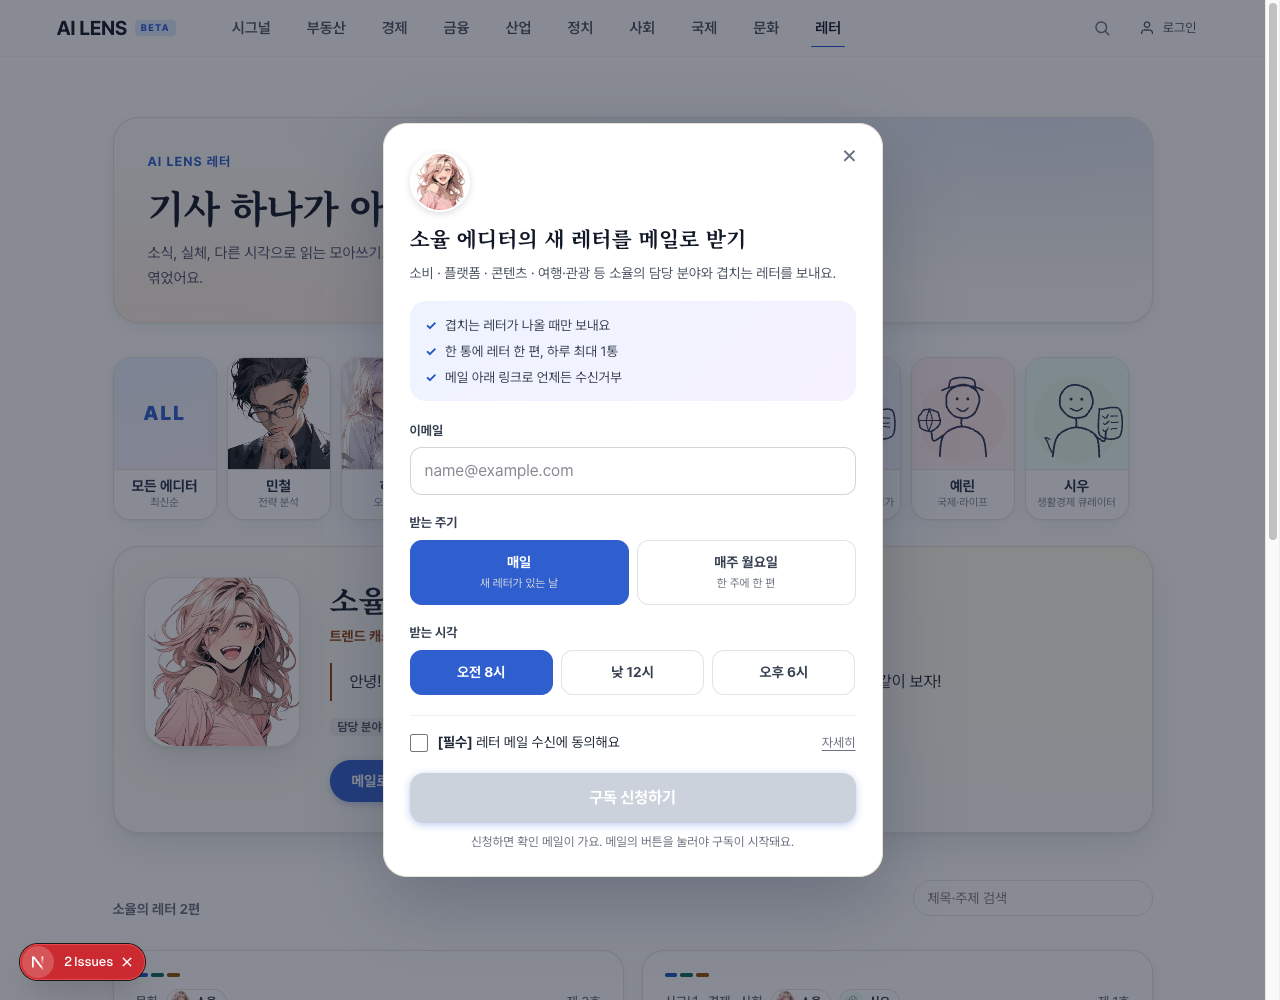
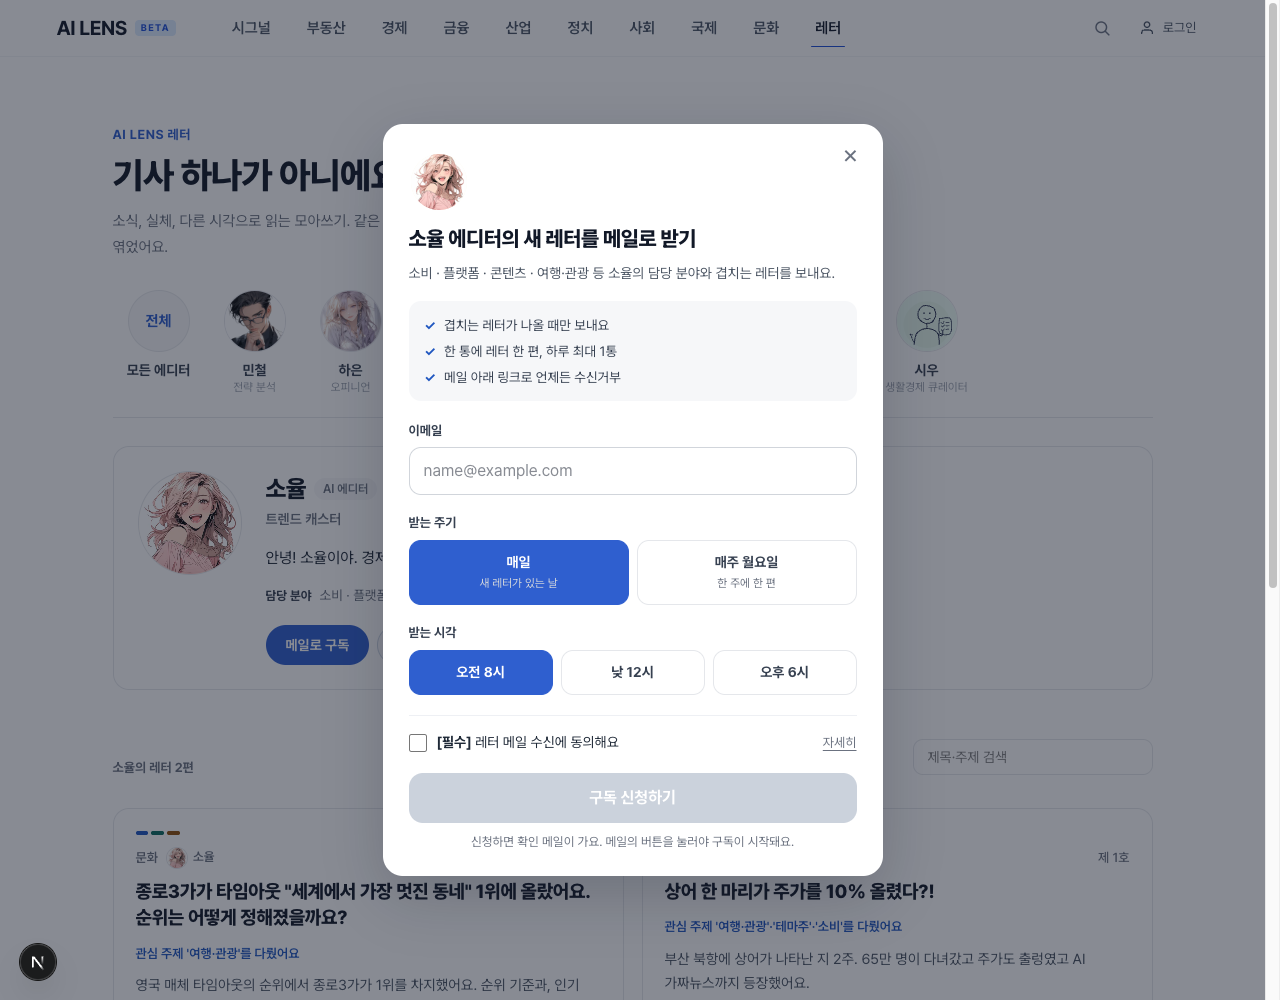
feat(letter): 그라데이션·장식 제거, 레퍼런스 기반 단순한 플랫 디자인으로 정리

diff --git a/service/frontend/src/features/letter/components/letterStyles.ts b/service/frontend/src/features/letter/components/letterStyles.ts
@@ -242,53 +242,59 @@ export const LETTER_CSS = `
   }
   @media (prefers-reduced-motion: reduce) { .lt-card, .ld-opt-bar { transition: none; } .lt-card:hover { transform: none; } }
 
-  /* ── 차분한 레이어(2026-10-11): 종이 톤 바탕, 가는 선, 부드러운 겹 그림자, 은은한 수채 번짐. 굵은 윤곽선·단단한 그림자·장식 요소는 쓰지 않는다. */
-  .lt-wrap { --ink: #25304a; --blue: #2f5fcf; --line: #e6e2d8; --paper: #fbfaf6; --shadow-s: 0 1px 2px rgba(37,48,74,.06), 0 6px 18px rgba(37,48,74,.07); --shadow-m: 0 2px 4px rgba(37,48,74,.07), 0 14px 34px rgba(37,48,74,.11); }
-  .lt-hero { position: relative; overflow: hidden; margin: 0 0 26px; padding: 34px 34px 30px; border: 1px solid var(--line); border-radius: 26px; background: radial-gradient(ellipse at 88% 0%, rgba(110,150,240,.20), transparent 58%), radial-gradient(ellipse at 6% 100%, rgba(255,196,160,.22), transparent 55%), var(--paper); box-shadow: var(--shadow-s); }
-  .lt-eyebrow { color: var(--blue); letter-spacing: .08em; }
-  .lt-h1 { margin-top: 10px; font-size: clamp(26px, 4.4vw, 38px); }
-  .lt-sub { color: #4a526a; max-width: 560px; }
-  .lt-etabs { gap: 10px; padding: 8px 6px 20px; margin: 0 -6px 6px; }
-  .lt-etab { width: 104px; padding: 0; gap: 0; align-items: stretch; border: 1px solid var(--line); border-radius: 18px; background: #fff; overflow: hidden; box-shadow: var(--shadow-s); transition: transform .18s, box-shadow .18s, border-color .18s; }
-  .lt-etab:hover { transform: translateY(-3px); box-shadow: var(--shadow-m); }
-  .lt-etab-ring { width: 100%; height: 112px; border-radius: 0; border: 0; border-bottom: 1px solid var(--line); background: linear-gradient(165deg, var(--tone-bg, #eef3ff) 0%, #fff 140%); overflow: hidden; }
-  .lt-etab[aria-pressed='true'] { transform: translateY(-3px); border-color: var(--tone-fg, var(--blue)); box-shadow: 0 0 0 2px var(--tone-fg, var(--blue)), var(--shadow-m); }
-  .lt-etab[aria-pressed='true'] .lt-etab-ring { box-shadow: none; border-color: var(--line); }
-  .lt-etab-all .lt-etab-ring { background: linear-gradient(165deg, #e8f0ff, #f4f0ff); color: var(--blue); }
-  .lt-etab-all .lt-etab-ring b { font-size: 20px; letter-spacing: .08em; }
-  .lt-etab-all[aria-pressed='true'] { --tone-fg: var(--blue); }
-  .lt-etab-all[aria-pressed='true'] .lt-etab-ring { background: linear-gradient(165deg, #dbe8ff, #ebe4ff); color: var(--blue); }
-  .lt-etab-text { padding: 7px 6px 9px; background: #fff; }
-  .lt-etab-text strong { font-size: 14.5px; color: var(--ink); }
-  .lt-etab[aria-pressed='true'] .lt-etab-text strong { color: var(--tone-fg, var(--blue)); }
-  .lt-etab-text em { max-width: 92px; }
+  /* ── 단순한 레이어(2026-10-11): 그라데이션·장식 없이 단색 바탕, 1px 헤어라인, 굵은 산세리프 제목, 포인트 색 하나(파랑). 참고: 뉴닉·요즘IT·퍼블리·Substack. */
+  .lt-wrap { --ink: #111827; --blue: #2f5fcf; --line: #e5e7eb; --soft: #f6f7f9; }
+  .lt-hero { padding: 8px 0 26px; }
+  .lt-eyebrow { color: var(--blue); font-weight: 700; letter-spacing: .04em; }
+  .lt-h1 { margin: 8px 0 0; font-family: inherit; font-size: clamp(26px, 4.2vw, 36px); font-weight: 800; letter-spacing: -0.02em; line-height: 1.3; color: var(--ink); text-wrap: balance; }
+  .lt-sub { margin: 10px 0 0; font-size: 15px; color: #6b7280; max-width: 560px; }
+  .lt-etabs { display: flex; gap: 4px; overflow-x: auto; margin: 0 0 28px; padding: 0 0 18px; border-bottom: 1px solid var(--line); scrollbar-width: none; }
+  .lt-etabs::-webkit-scrollbar { display: none; }
+  .lt-etab { flex: none; width: 92px; display: flex; flex-direction: column; align-items: center; gap: 9px; padding: 4px 0; border: 0; background: none; font: inherit; color: #6b7280; cursor: pointer; }
+  .lt-etab-ring { display: grid; place-items: center; width: 62px; height: 62px; border-radius: 50%; border: 1px solid var(--line); overflow: hidden; background: var(--tone-bg, var(--soft)); font-size: 14px; font-weight: 700; color: #374151; transition: outline-color .12s; outline: 2px solid transparent; outline-offset: 3px; }
+  .lt-etab:hover .lt-etab-ring { outline-color: #cbd5e1; }
+  .lt-etab[aria-pressed='true'] .lt-etab-ring { outline-color: var(--ink); }
+  .lt-etab-all .lt-etab-ring { background: var(--soft); }
+  .lt-etab-all[aria-pressed='true'] .lt-etab-ring { background: var(--ink); color: #fff; border-color: var(--ink); }
+  .lt-etab-text { display: flex; flex-direction: column; align-items: center; gap: 1px; line-height: 1.3; text-align: center; }
+  .lt-etab-text strong { font-size: 14px; font-weight: 700; color: #374151; }
+  .lt-etab[aria-pressed='true'] .lt-etab-text strong { color: var(--ink); }
+  .lt-etab-text em { font-style: normal; font-size: 11.5px; font-weight: 400; color: #9ca3af; white-space: nowrap; max-width: 90px; overflow: hidden; text-overflow: ellipsis; }
   .lt-avatar-img { object-position: center 18%; }
-  .lt-eintro { position: relative; grid-template-columns: 156px minmax(0, 1fr); gap: 30px; margin: 6px 0 30px; padding: 30px; border: 1px solid var(--line); border-radius: 26px; background: radial-gradient(ellipse at 100% 0%, var(--tone-bg, #eef3ff), transparent 62%), var(--paper); box-shadow: var(--shadow-m); }
-  .lt-eintro-photo { padding: 0; border: 1px solid var(--line); border-radius: 24px; background: #fff; box-shadow: var(--shadow-m); transform: none; overflow: hidden; line-height: 0; }
-  .lt-eintro-name h2 { font-size: 30px; }
-  .lt-ed-badge { border: 1px solid var(--line); background: #fff; color: #4b5563; }
-  .lt-ed-mbti { background: var(--tone-fg, var(--ink)); border-color: transparent; color: #fff; }
-  .lt-eintro-role { color: var(--tone-fg, var(--blue)); }
-  .lt-eintro-quote { margin: 16px 0 0; padding: 4px 0 4px 18px; border: 0; border-left: 2px solid var(--tone-fg, #cbd5e1); border-radius: 0; background: none; box-shadow: none; max-width: 620px; }
-  .lt-eintro-quote::before { display: none; }
-  .lt-eintro-scope span { border: 0; background: rgba(37,48,74,.07); color: #4b5563; }
-  .lt-eintro-actions { gap: 10px; margin-top: 22px; }
-  .lt-eintro-sub, .lt-int-btn, .lt-dlg-primary { border: 0; box-shadow: 0 2px 8px rgba(47,95,207,.32); transition: transform .12s, box-shadow .12s, background .12s; }
-  .lt-eintro-sub:hover, .lt-int-btn:hover, .lt-dlg-primary:hover:not(:disabled) { background: #254eb0; transform: translateY(-1px); box-shadow: 0 6px 16px rgba(47,95,207,.36); }
-  .lt-eintro-btn { border: 1px solid #d5dbe6; box-shadow: var(--shadow-s); color: #374151; }
-  .lt-eintro-btn[aria-pressed='true'] { background: #eef3ff; border-color: #b7cdf5; color: var(--blue); }
-  .lt-ibar-row { border: 1px solid var(--line); border-radius: 18px; background: #fff; box-shadow: var(--shadow-s); }
-  .lt-card { border: 1px solid var(--line); border-radius: 22px; box-shadow: var(--shadow-s); }
-  .lt-card:hover { border-color: #cfd8ea; box-shadow: var(--shadow-m); transform: translateY(-3px); }
-  .lt-card-feat { border: 1px solid #d9e3f6; background: radial-gradient(ellipse at 100% 0%, rgba(110,150,240,.16), transparent 60%), radial-gradient(ellipse at 0% 100%, rgba(255,196,160,.16), transparent 55%), var(--paper); box-shadow: var(--shadow-m); }
-  .lt-card-ed { display: inline-flex; align-items: center; gap: 5px; padding: 1px 9px 1px 2px; border: 1px solid var(--line); border-radius: 999px; background: #fff; font-size: 12px; font-weight: 700; color: #374151; }
-  .lt-card-ed .lt-avatar { width: 22px; height: 22px; }
+  .lt-eintro { grid-template-columns: 104px minmax(0, 1fr); gap: 24px; margin: 0 0 32px; padding: 24px; border: 1px solid var(--line); border-radius: 16px; background: #fff; box-shadow: none; }
+  .lt-eintro-photo { padding: 0; border: 1px solid var(--line); border-radius: 50%; background: var(--soft); box-shadow: none; transform: none; overflow: hidden; line-height: 0; width: 104px; height: 104px; }
+  .lt-eintro-photo .lt-avatar { width: 104px !important; height: 104px !important; border-radius: 50% !important; }
+  .lt-eintro-name h2 { font-family: inherit; font-size: 24px; font-weight: 800; letter-spacing: -0.02em; }
+  .lt-ed-badge { border: 0; background: var(--soft); color: #6b7280; font-weight: 600; }
+  .lt-ed-mbti { background: var(--soft); color: #374151; letter-spacing: .03em; }
+  .lt-eintro-role { margin-top: 2px; color: #6b7280; font-weight: 600; }
+  .lt-eintro-quote { margin: 14px 0 0; padding: 0; border: 0; background: none; font-size: 15.5px; line-height: 1.8; color: #1f2937; max-width: 620px; }
+  .lt-eintro-scope { margin-top: 12px; color: #6b7280; }
+  .lt-eintro-scope span { margin-right: 8px; padding: 0; background: none; font-size: 12.5px; font-weight: 700; color: #374151; }
+  .lt-eintro-actions { gap: 8px; margin-top: 18px; }
+  .lt-eintro-sub, .lt-int-btn, .lt-dlg-primary { border: 0; box-shadow: none; background: var(--blue); }
+  .lt-eintro-sub:hover, .lt-int-btn:hover, .lt-dlg-primary:hover:not(:disabled) { background: #254eb0; transform: none; box-shadow: none; }
+  .lt-eintro-sub { height: 40px; padding: 0 20px; font-size: 14px; }
+  .lt-eintro-btn { height: 40px; border: 1px solid var(--line); box-shadow: none; color: #374151; font-weight: 600; }
+  .lt-eintro-btn:hover { background: var(--soft); }
+  .lt-eintro-btn[aria-pressed='true'] { background: var(--soft); border-color: #cbd5e1; color: var(--ink); }
+  .lt-ibar-row { border: 0; border-radius: 12px; background: var(--soft); box-shadow: none; }
+  .lt-card { border: 1px solid var(--line); border-radius: 16px; box-shadow: none; background: #fff; }
+  .lt-card:hover { border-color: #b8c0cc; box-shadow: none; transform: none; }
+  .lt-card-feat { border: 1px solid var(--line); background: var(--soft); box-shadow: none; }
+  .lt-card-title { font-family: inherit; font-weight: 800; letter-spacing: -0.015em; line-height: 1.4; color: var(--ink); }
+  .lt-card-feat .lt-card-title { font-size: clamp(22px, 3.2vw, 28px); }
+  .lt-card-ed { display: inline-flex; align-items: center; gap: 5px; padding: 0; border: 0; background: none; font-size: 12.5px; font-weight: 600; color: #6b7280; }
+  .lt-card-ed .lt-avatar { width: 20px; height: 20px; border: 1px solid var(--line); }
   .lt-card-cat { flex-wrap: wrap; }
-  .lt-dlg { border: 1px solid var(--line); border-radius: 24px; box-shadow: 0 24px 70px rgba(37,48,74,.30); }
+  .lt-sec-h { font-size: 13px; font-weight: 700; color: #6b7280; }
+  .lt-searchbox { border-radius: 10px; border-color: var(--line); }
+  .lt-dlg { border: 0; border-radius: 20px; box-shadow: 0 20px 60px rgba(17,24,39,.22); }
+  .lt-dlg-h { font-family: inherit; font-weight: 800; letter-spacing: -0.02em; }
   .lt-dlg-faces { display: flex; margin: 0 0 12px; }
-  .lt-dlg-face { margin-right: -10px; border: 2px solid #fff; border-radius: 50%; overflow: hidden; background: #fff; box-shadow: 0 2px 8px rgba(37,48,74,.18); line-height: 0; }
-  .lt-dlg-promise { border: 0; border-radius: 16px; background: linear-gradient(135deg, #eef4ff, #f6f1ff); box-shadow: none; }
-  .lt-seg button { border: 1px solid #dfe3ea; box-shadow: none; }
-  .lt-seg button[aria-pressed='true'] { border-color: var(--blue); box-shadow: none; transform: none; }
-  @media (max-width: 640px) { .lt-hero { padding: 24px 20px; } .lt-eintro { grid-template-columns: 1fr; padding: 22px; } .lt-etab { width: 100px; } }
+  .lt-dlg-face { margin-right: -8px; border: 2px solid #fff; border-radius: 50%; overflow: hidden; background: #fff; box-shadow: none; line-height: 0; }
+  .lt-dlg-promise { border: 0; border-radius: 12px; background: var(--soft); box-shadow: none; }
+  .lt-seg button { border: 1px solid var(--line); box-shadow: none; }
+  .lt-seg button[aria-pressed='true'] { border-color: var(--blue); background: var(--blue); box-shadow: none; transform: none; }
+  @media (max-width: 640px) { .lt-hero { padding-bottom: 18px; } .lt-eintro { grid-template-columns: 1fr; padding: 20px; gap: 16px; } .lt-etab { width: 84px; } }
 `;

diff --git a/service/frontend/src/features/letter/components/EditorTabs.tsx b/service/frontend/src/features/letter/components/EditorTabs.tsx
@@ -4,17 +4,17 @@ import type { CSSProperties } from 'react';
 import { EDITORS } from '../data/editors';
 import { EditorAvatar } from './EditorAvatar';
 
-/** 레터 탭의 에디터 선택줄. 만화 컷처럼 굵은 윤곽선 + 단단한 그림자의 캐릭터 카드이고, 선택하면 카드가 떠오르며 그림자가 에디터 색으로 바뀐다. */
+/** 레터 탭의 에디터 선택줄. 원형 프로필 아래 이름·역할만 두는 단순한 형태(요즘IT·Substack 류)이고, 선택하면 프로필에 짙은 테두리가 둘러진다. */
 export function EditorTabs({ selected, onSelect }: { selected: string | null; onSelect: (id: string | null) => void }) {
   return (
     <div className="lt-etabs" role="group" aria-label="에디터">
       <button type="button" className="lt-etab lt-etab-all" aria-pressed={selected === null} onClick={() => onSelect(null)}>
-        <span className="lt-etab-ring"><b>ALL</b></span>
-        <span className="lt-etab-text"><strong>모든 에디터</strong><em>최신순</em></span>
+        <span className="lt-etab-ring">전체</span>
+        <span className="lt-etab-text"><strong>모든 에디터</strong></span>
       </button>
       {EDITORS.map((e) => (
-        <button key={e.id} type="button" className="lt-etab" aria-pressed={selected === e.id} onClick={() => onSelect(e.id)} style={{ '--tone-bg': e.tone.bg, '--tone-fg': e.tone.fg } as CSSProperties}>
-          <span className="lt-etab-ring"><EditorAvatar editor={e} size={108} fill /></span>
+        <button key={e.id} type="button" className="lt-etab" aria-pressed={selected === e.id} onClick={() => onSelect(e.id)} style={{ '--tone-bg': e.tone.bg } as CSSProperties}>
+          <span className="lt-etab-ring"><EditorAvatar editor={e} size={60} fill /></span>
           <span className="lt-etab-text"><strong>{e.name}</strong><em>{e.role.replace(' 에디터', '')}</em></span>
         </button>
       ))}

diff --git a/docs/product/모아쓰기레터/변경이력.md b/docs/product/모아쓰기레터/변경이력.md
@@ -8,7 +8,7 @@
 - **문제**: 에디터 12명이 선택줄을 2줄로 늘리고 겹치는 분야가 많았다. 선택줄이 다른 탭의 알약형 카테고리와 같은 모양이라 구분이 약했고, 소개 카드는 이미지가 작고 오른쪽이 비었다. 메일 구독 폼은 목록 안의 긴 입력 폼이었고 버튼이 검정이라 사이트 파랑 톤과 어긋났다. 헤더의 "더보기" 드롭다운은 불필요하다는 지적이 있었다.
 - **기존**: 에디터 12명 알약형 칩 2줄, 소개 카드(96px 이미지·칩 나열), 인라인 구독 폼(셀렉트 박스), 검정 주 버튼, 헤더 "타임라인·게임" 더보기 드롭다운.
 - **개선**: ① 에디터를 8명으로 축소(담당이 겹치던 수빈·도윤·다은·유나를 하은·준서·소율에 합침, K뷰티·유통은 소율 담당). ② 선택줄을 초상형(큰 일러스트 아래 이름·역할)으로 바꿔 알약형 카테고리와 구분, 선택 시 에디터 고유 색 테두리. ③ 소개 카드: 132px 일러스트, 이름·AI 에디터·MBTI 배지, 역할, 인용형 소개문, "담당 분야" 라벨의 텍스트 나열, 주 행동(메일로 구독) → 팔로우 → 소개 듣기 순. ④ 메일 구독을 중앙 대화상자로 교체: 약속 3줄, 이메일 하나가 핵심, 주기·시각은 선택 버튼(기본값 매일·오전 8시), 동의는 미체크·"자세히"로 상세, 신청 후 3단계 안내 화면(Esc·배경·× 닫기). 사용자 행동 정의 문서 `구독_UX_행동정의.md` 신설. ⑤ 주 버튼·선택 상태·체크박스를 사이트 파랑(#2f5fcf)으로 통일. ⑥ 헤더의 "더보기" 드롭다운 삭제(데스크톱). 모바일 드로어의 타임라인·게임 항목은 그대로.
-- **근거·영향**: 사용자 지시. 검증: tsc·eslint 통과, 데스크톱·모바일 스크린샷(`docs/worklog/2026-10/2026-10-09-레터탭-목업/editors/ed4_*`), 형식 오류·Esc·배경 클릭 닫기·제출 활성 조건 확인. **주의**: 헤더는 사이트 전체 공통이라 배포하면 모든 페이지에서 "더보기"가 사라지고, 타임라인·게임으로 가는 데스크톱 진입 경로가 없어진다(주소·모바일 드로어로는 접근 가능). 이미지 없는 4명(지훈·서연·예린·시우)은 손으로 그은 듯 선이 조금씩 흔들리는 졸라맨 선화(SVG, service/frontend/scripts/draw_editor_sketches.py로 생성, 시드 고정)로 임시 대체하며 실제 일러스트가 준비되면 교체. **디자인 톤 정정(같은 날)**: 웹툰·애니풍 장식(굵은 윤곽선, 단단한 그림자, 집중선, 노란 공, 말풍선, 스티커)을 한 차례 적용했으나 과하고 AI 느낌이 강하다는 지적으로 모두 제거. 최종 톤은 종이 색 바탕, 가는 선(1px), 부드러운 겹 그림자, 은은한 수채 번짐 그라데이션, 에디터 선택 시 에디터 색 2px 테두리, 파랑 주 버튼. 인용은 말풍선이 아니라 가는 세로선 인용. 구독 신청 제출은 운영 API로 실제 메일이 나가므로 이번 확인에서는 누르지 않음.
+- **근거·영향**: 사용자 지시. 검증: tsc·eslint 통과, 데스크톱·모바일 스크린샷(`docs/worklog/2026-10/2026-10-09-레터탭-목업/editors/ed4_*`), 형식 오류·Esc·배경 클릭 닫기·제출 활성 조건 확인. **주의**: 헤더는 사이트 전체 공통이라 배포하면 모든 페이지에서 "더보기"가 사라지고, 타임라인·게임으로 가는 데스크톱 진입 경로가 없어진다(주소·모바일 드로어로는 접근 가능). 이미지 없는 4명(지훈·서연·예린·시우)은 손으로 그은 듯 선이 조금씩 흔들리는 졸라맨 선화(SVG, service/frontend/scripts/draw_editor_sketches.py로 생성, 시드 고정)로 임시 대체하며 실제 일러스트가 준비되면 교체. **디자인 톤 정정(같은 날, 2회)**: 웹툰·애니풍 장식(굵은 윤곽선, 단단한 그림자, 집중선, 말풍선)은 과하다는 지적으로 제거했고, 이어 수채 번짐 그라데이션도 AI 느낌이 난다는 지적으로 제거. 레퍼런스(뉴닉·요즘IT·퍼블리·Substack·브런치, 메디움·모닝브루는 접근 차단)를 캡처해 공통 원칙을 추출: 그라데이션·장식 없음, 단색 바탕, 1px 헤어라인, 굵은 산세리프 제목, 포인트 색 하나, 작은 원형 프로필, 넉넉한 여백. 최종: 흰 바탕, 에디터 선택줄은 원형 프로필 + 이름·역할(선택 시 짙은 테두리), 소개 카드는 1px 테두리·원형 사진·본문 인용 없이 평문, 레터 카드는 1px 테두리·그림자 없음, 제목은 굵은 산세리프, 주 버튼은 파랑 단색, 보조 영역은 연회색(#f6f7f9).
 
 ## 30. 에디터 중심 레터 탭 — 에디터 선택줄(카테고리처럼), 자기소개, 그 에디터의 레터 목록 (프론트 목업, 2026-10-10, 로컬 완료·미배포)
 - **문제**: 분류 칩(시그널·경제·산업…)은 1차원적이라 "누구의 관심 영역인지"가 없다. 기획서의 독자 페르소나 8개와 이전 에디터 탭(카드 → 자기소개 → 쓴 글 → 구독)의 흐름이 레터에 반영되지 않았고, 1차 목업의 에디터 5명도 분류에 이름만 씌운 것이었다.
